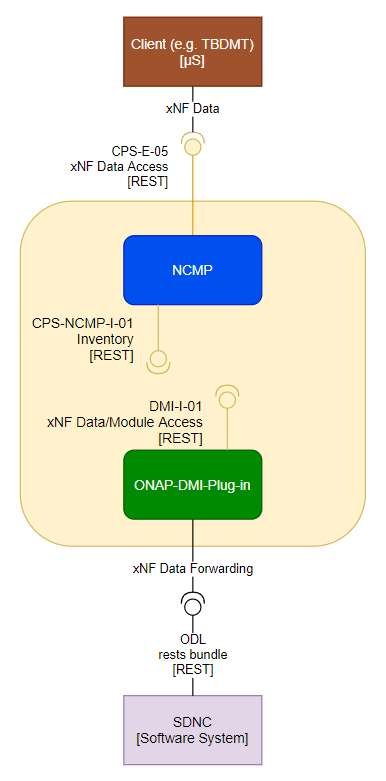
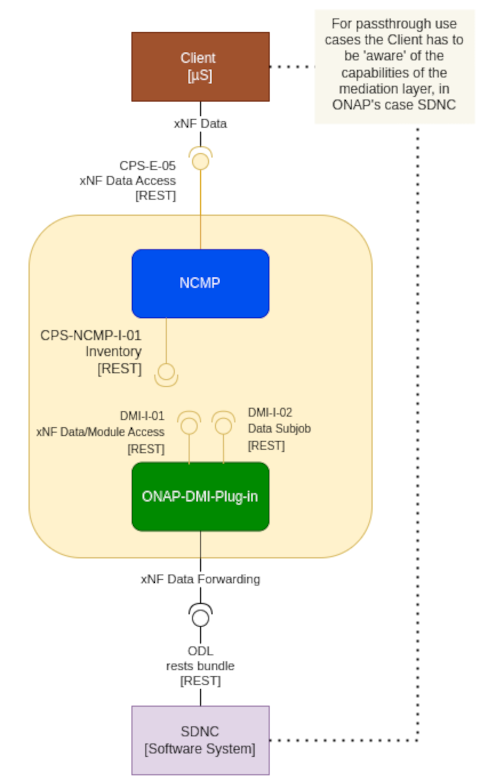
DMI REST interface documentation
Issue-ID: CPS-2141

Changed region(s): [[0.0311, 0.0, 0.9637, 1.0], [0.8394, 0.9219, 0.8705, 0.9526]]

diff --git a/docs/architecture.rst b/docs/architecture.rst
@@ -1,6 +1,6 @@
 .. This work is licensed under a Creative Commons Attribution 4.0 International License.
 .. http://creativecommons.org/licenses/by/4.0
-.. Copyright (C) 2021-2023 Nordix Foundation
+.. Copyright (C) 2021-2024 Nordix Foundation
 .. _architecture:
 
 DMI-Plugin Architecture
@@ -51,6 +51,15 @@ The DMI-Plugin provides following interfaces.
        - Read data
        - Query data
        - Query module references
+     - REST
+   * - DMI-I-02
+     - Provides support for Async Data Subjobs enabling CRUDAQ requests for the paths in the request using the ID of the producer registered by DMI. This enables subnetwork-wide requests
+     - - Create data based on dataProducerId
+       - Read data based on dataProducerId
+       - Update data based on dataProducerId
+       - Delete data based on dataProducerId
+       - Perform action on data based on dataProducerId
+       - Query data based on dataProducerId
      - REST
 
 More details on the CPS interface CPS-E-05 which is responsible for the DMI-Plugin can be found on the :ref:`CPS Architecture page<onap-cps:architecture>`

diff --git a/docs/design.rst b/docs/design.rst
@@ -1,6 +1,6 @@
 .. This work is licensed under a Creative Commons Attribution 4.0 International License.
 .. http://creativecommons.org/licenses/by/4.0
-.. Copyright (C) 2021-2023 Nordix Foundation
+.. Copyright (C) 2021-2024 Nordix Foundation
 
 .. DO NOT CHANGE THIS LABEL FOR RELEASE NOTES - EVEN THOUGH IT GIVES A WARNING
 .. _design:
@@ -18,6 +18,8 @@ Offered APIs
 The DMI-Plugin supports the public APIs listed in the link below:
 
 :download:`DMI Rest OpenApi Specification <api/swagger/openapi.yaml>`
+
+:download:`DMI Datajob OpenApi Specification <api/swagger/openapi-datajob.yaml>`
 
 View Offered APIs
 -----------------

diff --git a/docs/index.rst b/docs/index.rst
@@ -1,6 +1,6 @@
 .. This work is licensed under a Creative Commons Attribution 4.0 International License.
 .. http://creativecommons.org/licenses/by/4.0
-.. Copyright (C) 2021 Nordix Foundation
+.. Copyright (C) 2021-2024 Nordix Foundation
 
 .. DO NOT CHANGE THIS LABEL FOR RELEASE NOTES - EVEN THOUGH IT GIVES A WARNING
 .. _master_index:
@@ -28,7 +28,4 @@ CPS-NCMP Documentation
 
 * :ref:`CPS-NCMP<onap-cps:master_index>`
 
-CPS-Temporal Documentation
---------------------------
 
-* :ref:`CPS-Temporal<onap-cps-cps-temporal:master_index>`
